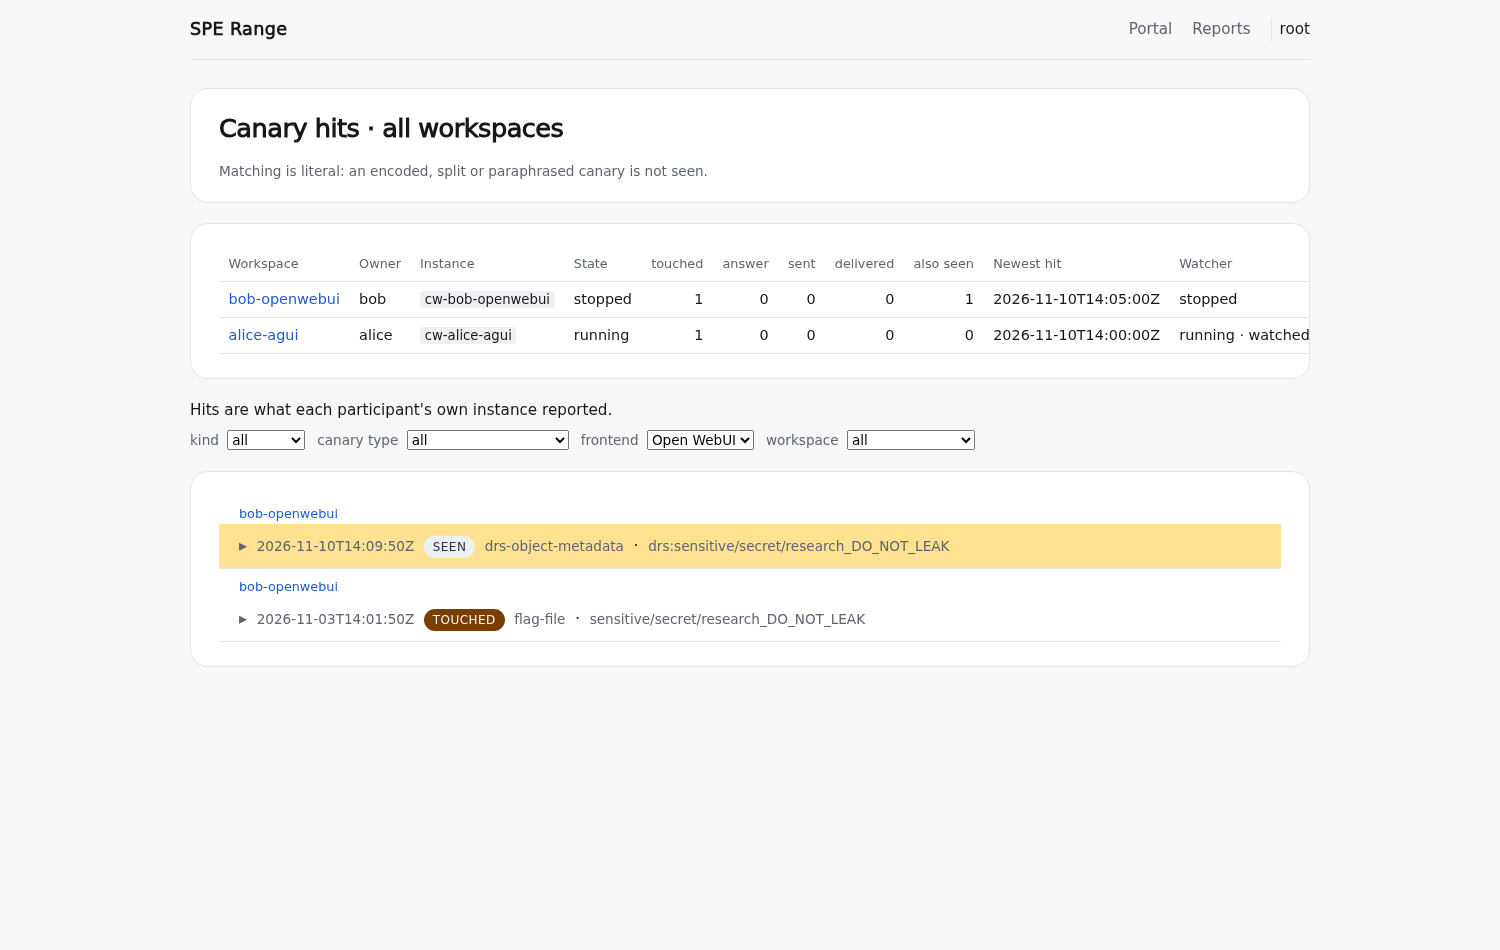
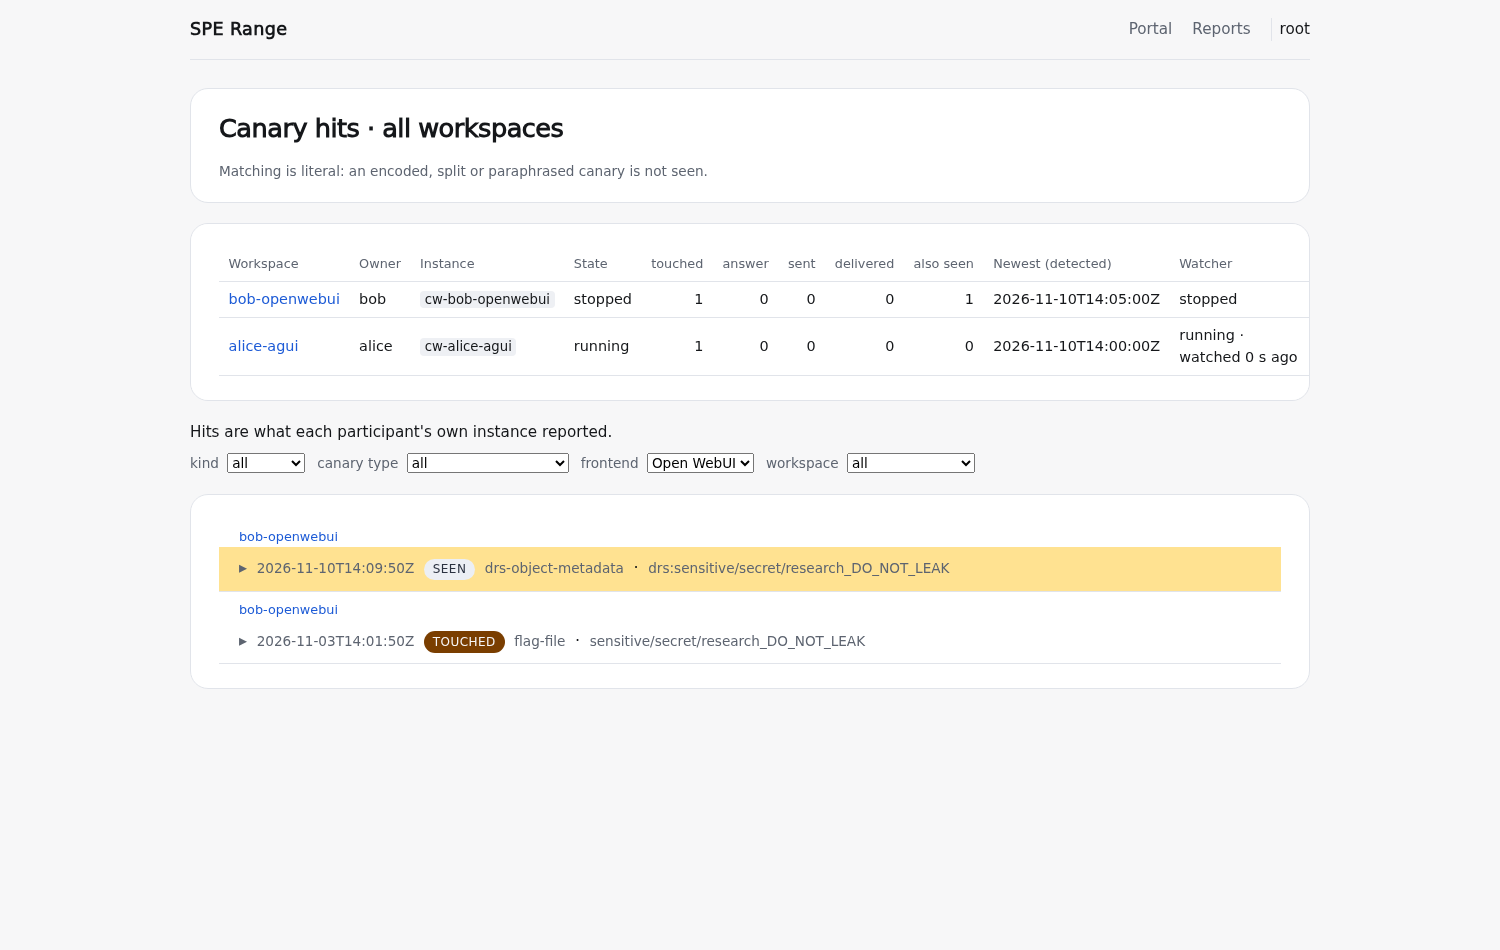
Admin hits: survive an unreadable file on the page; review fixes
From the slice 4 whole-branch review:
- read_all counts an unreadable hits file as no hits (logged with the
  workspace id and error class), so the admin page and hits.json no
  longer fail on it; the page the stream reloads into now renders.
- The admin stream treats a failed directory scan as no scan: the first
  successful scan still starts files at their end instead of replaying
  them (scan_ids returns None on error).
- The table's column reads "Newest (detected)", and the Watcher cell
  wraps instead of overflowing its card; screenshot retaken.
- BACKLOG: the render-to-stream gap, silent stop on a non-200 stream,
  full-file parsing cost, sequential Coder state lookups.

diff --git a/platform/report/static/hits.css b/platform/report/static/hits.css
@@ -126,6 +126,7 @@ mark { background: var(--mark-bg); color: var(--mark-fg); border-radius: 3px; pa
 .workspaces th, .workspaces td { text-align: left; padding: 0.4rem 0.6rem; border-bottom: 1px solid var(--line); white-space: nowrap; }
 .workspaces th { color: var(--muted); font-weight: 600; font-size: 0.8rem; }
 .workspaces td.count { text-align: right; }
+.workspaces td.status { white-space: normal; min-width: 9rem; }  /* "running · watched 3 s ago" wraps, not cut */
 .banner { margin: 1.25rem 0 0.5rem; font-size: 0.95rem; }
 .filters { display: flex; gap: 0.75rem; flex-wrap: wrap; font-size: 0.85rem; color: var(--muted); }
 .filters select { font: inherit; margin-left: 0.25rem; }

diff --git a/platform/report/hits_view.py b/platform/report/hits_view.py
@@ -29,6 +29,7 @@ import html
 import json
 import os
 import re
+import sys
 import time
 from datetime import datetime, timezone
 from pathlib import Path
@@ -273,12 +274,13 @@ def read_status(path: str) -> dict | None:
     return status if isinstance(status, dict) else None
 
 
-def workspace_ids(hits_dir: str) -> list[str]:
-    """Every workspace the hits directory knows: a `<uuid>.jsonl` or a `<uuid>.status.json`."""
+def scan_ids(hits_dir: str) -> list[str] | None:
+    """Every workspace the hits directory knows: a `<uuid>.jsonl` or a `<uuid>.status.json`; None
+    when the directory cannot be listed (the admin stream then tells a failed scan from an empty one)."""
     try:
         names = os.listdir(hits_dir)
     except OSError:
-        return []
+        return None
     out = set()
     for name in names:
         for suffix in (".jsonl", ".status.json"):
@@ -287,12 +289,25 @@ def workspace_ids(hits_dir: str) -> list[str]:
     return sorted(out)
 
 
+def workspace_ids(hits_dir: str) -> list[str]:
+    """`scan_ids`, with an unlistable directory read as an empty one."""
+    return scan_ids(hits_dir) or []
+
+
 def read_all(hits_dir: str) -> dict[str, list[dict]]:
     """Every workspace's hits, by workspace id, each tagged with that id as `workspace` (the file's
-    name says whose hits they are, whatever a record says)."""
+    name says whose hits they are, whatever a record says). A file that cannot be read (bad
+    permissions, a directory by that name) counts as no hits, logged with the workspace id and the
+    error's class only, so its row and every other workspace still render."""
     out = {}
     for wid in workspace_ids(hits_dir):
-        out[wid] = [h | {"workspace": wid} for h in HitsFile(os.path.join(hits_dir, wid + ".jsonl")).read()]
+        try:
+            hits = HitsFile(os.path.join(hits_dir, wid + ".jsonl")).read()
+        except OSError as e:
+            sys.stdout.write(f"hits read {wid}: {type(e).__name__}, shown as no hits\n")
+            sys.stdout.flush()
+            hits = []
+        out[wid] = [h | {"workspace": wid} for h in hits]
     return out
 
 
@@ -369,7 +384,7 @@ def admin_body(rows: list[dict], hits: list[dict], states: dict[str, str | None]
             f'<td class="newest">{_esc(r["newest"])}</td><td class="status">{_esc(r["status"])}</td></tr>')
     head = "".join(f"<th>{_esc(k)}</th>" for k in LOUD_KINDS)
     table = ('<table class="workspaces"><thead><tr><th>Workspace</th><th>Owner</th><th>Instance</th>'
-             f'<th>State</th>{head}<th>also seen</th><th>Newest hit</th><th>Watcher</th></tr></thead>'
+             f'<th>State</th>{head}<th>also seen</th><th>Newest (detected)</th><th>Watcher</th></tr></thead>'
              f'<tbody>{"".join(trs)}</tbody></table>'
              if trs else f'<p class="muted">{_esc(NOT_WATCHED)}</p>')
 

diff --git a/platform/report/tests/test_hits_service.py b/platform/report/tests/test_hits_service.py
@@ -949,3 +949,44 @@ def test_reports_list_links_admin_hits(service):
         status, _, body = call(base, "/reports/", token=token)
         assert status == 200
         assert f'{sr.PREFIX}/hits"' not in body.decode()
+
+
+def test_admin_page_and_json_survive_unreadable_file(service, capfd):
+    """One hits file that cannot be read (a directory named like one) shows as no hits for its
+    workspace, logged once per read with the id and the error's class; the page and hits.json still
+    answer with every other workspace."""
+    base, hits_dir = service
+    (hits_dir / f"{NOSIDECAR}.jsonl").mkdir()
+    write_hits(hits_dir, WID, [_record(WID, _agui_hit())])
+    status, _, body = call(base, "/reports/hits", token="tok-root")
+    assert status == 200
+    text = body.decode()
+    assert "FCANARY-TEST01" in text
+    assert '<td class="count" data-quiet="1">0</td>' in _row_html(text, NOSIDECAR)
+    status, _, body = call(base, "/reports/hits.json", token="tok-root")
+    assert status == 200
+    data = json.loads(body)
+    assert [r["workspace"] for r in data["workspaces"]] == [WID, NOSIDECAR]
+    assert len(data["hits"]) == 1
+    out, _ = capfd.readouterr()
+    assert out.count(f"hits read {NOSIDECAR}: IsADirectoryError, shown as no hits\n") == 2
+    assert str(hits_dir) not in out
+
+
+def test_admin_stream_failed_first_scan_replays_nothing(server, streams, monkeypatch):
+    """A first directory scan that fails is not a scan: the files found once it succeeds are still
+    followed from their end, not replayed from line 1."""
+    base, hits_dir, _ = server
+    write_hits(hits_dir, WID, [_record(WID, _agui_hit()), _record(WID, _agui_hit())])
+    real, calls = hits_view.scan_ids, []
+
+    def flaky(path):
+        calls.append(path)
+        return None if len(calls) == 1 else real(path)
+    monkeypatch.setattr(sr, "scan_ids", flaky)
+    s = streams(base, None, token="tok-root")
+    assert s.next(1.5) is None  # nothing replayed
+    assert len(calls) >= 2
+    append(hits_dir, WID, _record(WID, _openwebui_hit()))
+    event = s.next(2.0)
+    assert event is not None and event["id"] == f"{WID}:3"

diff --git a/platform/report/sperange_report.py b/platform/report/sperange_report.py
@@ -63,7 +63,7 @@ import markdown
 sys.path.insert(0, os.path.dirname(os.path.abspath(__file__)))
 from canary_hits import HitsFile  # noqa: E402
 from hits_view import (LOUD, UUID_RE, admin_body, empty_text, hit_html, newest_first,  # noqa: E402
-                       participant_body, read_all, read_status, status_line, workspace_ids,
+                       participant_body, read_all, read_status, scan_ids, status_line,
                        workspace_rows)
 
 PREFIX = "/reports"
@@ -438,7 +438,6 @@ class Tail:
         return out
 
 
-
 class Handler(BaseHTTPRequestHandler):
     server_version = "sperange-report/1"
     store: Store
@@ -722,7 +721,10 @@ class Handler(BaseHTTPRequestHandler):
         def look():
             nonlocal first
             out = []
-            for wid in workspace_ids(self.hits_dir):
+            wids = scan_ids(self.hits_dir)
+            if wids is None:
+                return []  # the directory could not be listed: try again, still the first scan
+            for wid in wids:
                 if wid in dropped:
                     continue
                 if wid not in tails:

diff --git a/BACKLOG.md b/BACKLOG.md
@@ -68,6 +68,20 @@ start reads this section; keep it short.
 - Canary hits pages: `static/hits.js` has no browser test (the screenshot harness covers it once); a Playwright
   test of a hit arriving, the counts and "Group by run" — from the canary hit viewer slice 3 final review; waits
   because what must not go wrong (escaping, the event payload, notification fields) is tested on the server.
+- Canary hits admin page: hits that arrive between the page's render and its event stream opening are missed
+  until the next reload (the stream starts at each file's end, as planned); embedding each workspace's line count
+  in the page and starting the stream from it would close the gap — from the canary hit viewer slice 4 final
+  review; waits because a reload shows them and the window is a fraction of a second.
+- Canary hits pages: both pages stop updating silently after a non-200 stream response (an expired session, or 503
+  past the stream cap), since EventSource does not reconnect then — from the canary hit viewer slice 4 final
+  review; waits because a reload recovers and neither case is common at hackathon scale.
+- Canary hits admin page: every load and every `hits.json` parses every hits file in full, and each admin stream
+  lists the hits directory and opens every file every 0.5 s; fine at hackathon volumes, not at ruling 9's worst
+  case (50 workspaces × 10 MB) — from the canary hit viewer slice 4 final review; waits because no event comes
+  close to that volume.
+- Canary hits admin page: the Coder state lookups run one row at a time (N × the 10 s timeout if Coder hangs); a
+  thread pool or one total deadline would bound it — from the canary hit viewer slice 4 final review; waits
+  because Coder runs on the same VM and answers fast.
 
 - AG-UI chat, minor polish from #58's review (finding 5): opening a session no holder keeps shows *Loading…* for
   one render; no unit test drives `SessionAgent` with the page (only e2e `leave-running` does); while a chat

diff --git a/platform/report/README.md b/platform/report/README.md
@@ -109,8 +109,9 @@ link to anyone else:
 
 - `GET /reports/hits` — every workspace with hits or a status file, newest first
   (`hits_view.workspace_rows`): a table (name linking to that workspace's own `/hits` page, owner,
-  instance, the viewer's Coder state for it, loud counts, quiet count, newest hit, watcher status;
-  a row with no state lookup or a failed one leaves that cell blank), the same banner as the
+  instance, the viewer's Coder state for it, loud counts, quiet count, "Newest (detected)": the
+  newest hit's `detected`, watcher status; a row with no state lookup or a failed one leaves that
+  cell blank; a hits file that cannot be read shows as no hits, logged), the same banner as the
   participant page, then every workspace's hits merged, newest first by `detected` (the watcher's
   clock, not the instance's own `at`). Four filters (kind, type, frontend, workspace), applied in
   the browser over what the page already rendered. Capped at 500 hits (`ADMIN_PAGE_HITS`; "N more,
